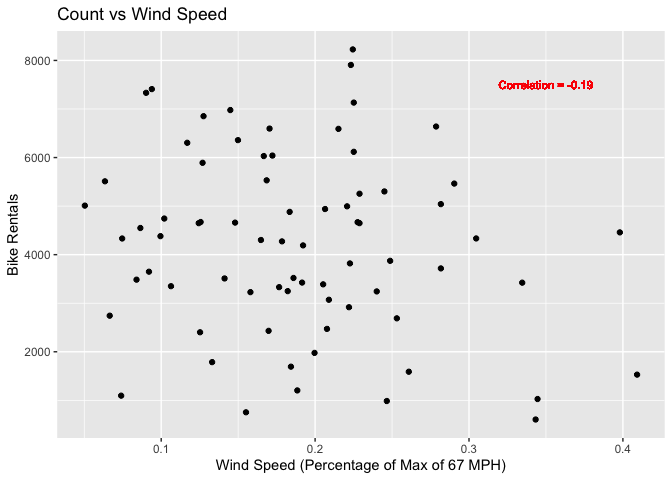
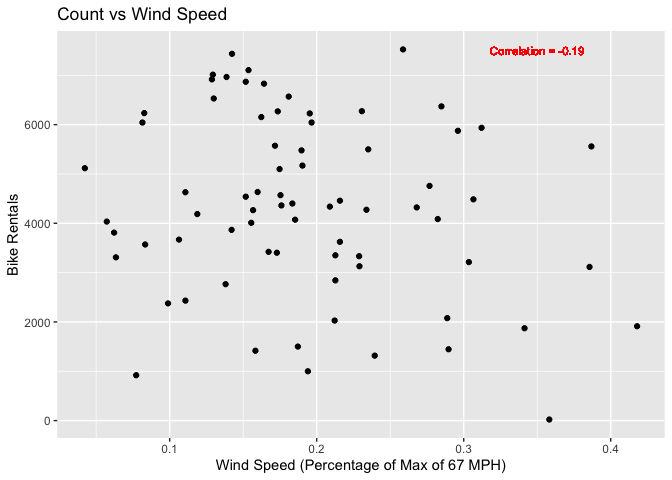
Completed Monday Analysis

diff --git a/Project_2.md b/Project_2.md
@@ -25,6 +25,7 @@ library(caret)
 library(knitr)
 library(rpart)
 library(rattle)
+library(forcats)
 ```
 
 # Introduction
@@ -84,6 +85,19 @@ summary(lm(cnt ~ . - casual - registered, data = bike))
 ``` r
 #Recreating the bike dataset with variables of interest
 bike %>% select(season, holiday, weekday, workingday, weathersit, atemp, hum, windspeed, cnt) -> bike
+
+#Resetting weekday to be factors
+bike$weekday <- as.factor(bike$weekday)
+
+#Resetting weekday column to show days of the week
+bike <- bike %>% mutate(weekday = fct_recode(weekday, 
+                                             "Monday" = "1",
+                                             "Tuesday" = "2",
+                                             "Wednesday" = "3",
+                                             "Thursday" = "4",
+                                             "Friday" = "5",
+                                             "Saturday" = "6",
+                                             "Sunday" = "0"))
 ```
 
 ## Data:
@@ -113,7 +127,7 @@ wind speed values divided to 67 (max).
 
 ``` r
 #Filtering the data by weekday
-bike %>% filter(weekday == 0) -> newbike
+bike %>% filter(weekday == "Monday") -> newbike
 
 #Splitting the data 70/30
 set.seed(23)
@@ -142,7 +156,7 @@ summary(bikeTrain$cnt)
 ```
 
     ##    Min. 1st Qu.  Median    Mean 3rd Qu.    Max. 
-    ##     605    3228    4333    4225    5464    8227
+    ##      22    3310    4338    4354    5936    7525
 
 ``` r
 #Summary stats of mean and standard deviation of count of rented bikes by season on this weekday
@@ -152,10 +166,10 @@ kable(sm1)
 
 | season |      avg |       sd |
 | -----: | -------: | -------: |
-|      1 | 2262.412 | 1341.160 |
-|      2 | 4860.438 | 1832.033 |
-|      3 | 5339.158 | 1254.285 |
-|      4 | 4320.048 | 1447.091 |
+|      1 | 2511.000 | 1415.485 |
+|      2 | 4426.353 | 1423.470 |
+|      3 | 5738.105 | 1323.215 |
+|      4 | 4447.762 | 1546.333 |
 
 ``` r
 #Summary stats of mean of count of rented bikes by weather situation on this weekday
@@ -165,9 +179,9 @@ kable(sm2)
 
 | weathersit |      avg |
 | ---------: | -------: |
-|          1 | 4323.490 |
-|          2 | 4152.826 |
-|          3 | 1027.000 |
+|          1 | 4587.595 |
+|          2 | 4220.172 |
+|          3 | 1393.500 |
 
 # Plots
 
@@ -243,29 +257,29 @@ bikeReg
     ## Summary of sample sizes: 72, 72, 72, 72, 72, 72, ... 
     ## Resampling results across tuning parameters:
     ## 
-    ##   cp          RMSE      Rsquared     MAE      
-    ##   0.00000000  1161.198  0.604378615   918.3104
-    ##   0.06216995  1327.108  0.479301477  1098.4427
-    ##   0.12433990  1312.382  0.490098311  1090.4863
-    ##   0.18650985  1312.382  0.490098311  1090.4863
-    ##   0.24867980  1312.382  0.490098311  1090.4863
-    ##   0.31084975  1312.382  0.490098311  1090.4863
-    ##   0.37301970  1312.382  0.490098311  1090.4863
-    ##   0.43518965  1312.382  0.490098311  1090.4863
-    ##   0.49735960  1312.382  0.490098311  1090.4863
-    ##   0.55952955  1975.454  0.008787218  1766.8788
+    ##   cp          RMSE      Rsquared    MAE     
+    ##   0.00000000  1457.600  0.35952740  1195.829
+    ##   0.04588097  1405.365  0.39197942  1179.719
+    ##   0.09176193  1500.591  0.30188872  1259.740
+    ##   0.13764290  1521.631  0.28564741  1276.979
+    ##   0.18352386  1521.631  0.28564741  1276.979
+    ##   0.22940483  1521.631  0.28564741  1276.979
+    ##   0.27528579  1521.631  0.28564741  1276.979
+    ##   0.32116676  1521.631  0.28564741  1276.979
+    ##   0.36704772  1521.631  0.28564741  1276.979
+    ##   0.41292869  2047.060  0.02762353  1835.100
     ## 
     ## RMSE was used to select the optimal model using the smallest value.
-    ## The final value used for the model was cp = 0.
+    ## The final value used for the model was cp = 0.04588097.
 
 ``` r
 #Best tuning parameter value for the final model
 kable(bikeReg$bestTune)
 ```
 
-| cp |
-| -: |
-|  0 |
+|   |       cp |
+| :- | -------: |
+| 2 | 0.045881 |
 
 ``` r
 #Displaying the final model
@@ -302,9 +316,9 @@ bikeBoost <- train(cnt ~ ., data = bikeTrain, method = "gbm",
 kable(bikeBoost$bestTune)
 ```
 
-|   | n.trees | interaction.depth | shrinkage | n.minobsinnode |
+|    | n.trees | interaction.depth | shrinkage | n.minobsinnode |
 | :- | ------: | ----------------: | --------: | -------------: |
-| 2 |      50 |                 1 |       0.1 |              5 |
+| 19 |      25 |                 2 |       0.1 |              5 |
 
 ``` r
 #Details about final model
@@ -312,8 +326,8 @@ bikeBoost$finalModel
 ```
 
     ## A gradient boosted model with gaussian loss function.
-    ## 50 iterations were performed.
-    ## There were 8 predictors of which 4 had non-zero influence.
+    ## 25 iterations were performed.
+    ## There were 13 predictors of which 4 had non-zero influence.
 
 # Test Set Predictions
 
@@ -327,14 +341,14 @@ postResample(testBikeRT, bikeTest$cnt)
 ```
 
     ##         RMSE     Rsquared          MAE 
-    ## 1154.1199874    0.6464854  931.2128739
+    ## 1138.9581399    0.5944807  977.8839844
 
 ``` r
 postResample(testBikeBoost, bikeTest$cnt)
 ```
 
     ##         RMSE     Rsquared          MAE 
-    ## 1087.6994822    0.6915684  969.6383183
+    ## 1186.6402312    0.5632436 1075.3303997
 
 The RMSE, MAE and R-squared values are shown above for each model being
 fit on the bike test set. The first set of results are from the
